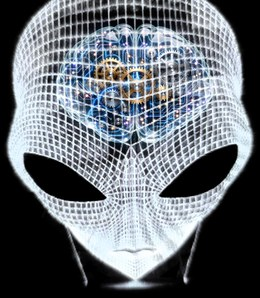
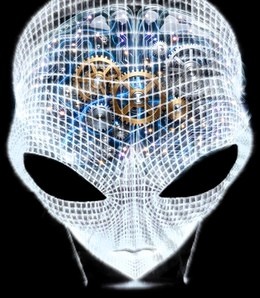
Brain wallpaper: glass brain fills the whole head (cut to the head shape, eyes clear)

Changed region(s): [[0.0615, 0.0, 0.9846, 0.6342], [0.8615, 0.2718, 0.8923, 0.302]]

diff --git a/app/src/main/java/com/jp/otherworld/wallpaper/Wallpapers.kt b/app/src/main/java/com/jp/otherworld/wallpaper/Wallpapers.kt
@@ -207,7 +207,7 @@ open class AlienWallpaperService : WallpaperService() {
         private val eyes = EyeLids(alien, seam)
         // Talk along (test): lips move with the phone's sound.
         private val talkFace = TalkFace(assets, asset)
-        private val brain: Bitmap? = if (!withBrain) null else runCatching { assets.open("alien_brain.webp").use { BitmapFactory.decodeStream(it) } }.getOrNull()
+        private val brain: Bitmap? = if (!withBrain) null else runCatching { assets.open("alien_brain_layer.webp").use { BitmapFactory.decodeStream(it) } }.getOrNull()
         private val brainPaint = Paint(Paint.FILTER_BITMAP_FLAG or Paint.ANTI_ALIAS_FLAG).apply { blendMode = android.graphics.BlendMode.SCREEN }
         private val brainRect = RectF()
         private val talk = TalkListener()
@@ -416,12 +416,11 @@ open class AlienWallpaperService : WallpaperService() {
                     c.drawBitmap(alien, 0f, 0f, maskPaint.also { it.alpha = (255 * talkFace.amount).toInt() })
                     talkFace.draw(c)
                 }
-                // The user's brain (art/originals/brain.svg) inside the skull: screened, so it glows through
-                // the mesh exactly as if it sat behind it (screen works the same in either order).
+                // The user's glass brain filling the skull (already cut to the head's shape, eyes clear, fading
+                // out below the eyes; same size as the face at 2×). Screened, so it glows through the mesh
+                // exactly as if it sat behind it (screen works the same in either order).
                 brain?.let { b ->
-                    val bw = alien.width * 0.66f; val bh = bw * b.height / b.width
-                    val bx = alien.width * 0.518f - bw / 2; val by = alien.height * 0.06f
-                    brainRect.set(bx, by, bx + bw, by + bh)
+                    brainRect.set(0f, 0f, alien.width.toFloat(), alien.height.toFloat())
                     c.drawBitmap(b, null, brainRect, brainPaint)
                 }
                 c.restoreToCount(save)

diff --git a/art/README.md b/art/README.md
@@ -79,4 +79,4 @@ generated/icon/store/: play_store_512.png (Play listing), app_store_1024.png (no
 | generated/mars/earth_to_mars_smoke_draft.mp4 | Seedance 2.5 Draft (1,000 credits, 2026-10-12): start = Earth video's first frame, end = mars_still_1.png; the Earth bursts into thick billowing grey smoke that clears to reveal Mars (user: "there is no smoke when the earth turns into mars"). Cut with tools/frames.py (saved globe_fade_mask) into assets/morph/ (121 frames), replacing the v2 swirl. HD possible until 2026-10-19 23:37 UTC. The wheel now spins the Earth ~2 s first (last 60 globe frames) before the morph. |
 | assets/morph/ (rebuilt), smoke_puff_0..2.webp | User: "the world stops spinning when it blows… not lined up… smoke contained in a bubble, can it rise up". The wheel now spins globe frames 0–59 (same side as the morph starts), then morph frames rebuilt with tools/smoke_over_spin.py: the real spinning Earth (continuing from frame 60) shows wherever the draft's frozen Earth is, the draft's grey smoke over it, then Mars. Smoke puffs (cut from the smoke frames, radial fade, brightened) rise out of the top of the globe during the smoke, timed by morph frames. |
 | assets/sounds/boom_1.wav | Low boom when the Earth bursts into smoke in the wheel (2026-10-12, "can i get a low boom"): generated/sounds/vault/boom_a.mp3 kept low (≤300 Hz) with 90–420 Hz harmonics of the rumble so phone speakers play it, soft-saturated, 2.6 s, −14 dB RMS. Wheel sounds → "Earth → Mars boom" (on/off, volume, default 70%). |
-| originals/brain.svg, originals/brain_glass.png | The user's brain art (magnific, 2026-10-12). brain_glass.png ("this one is the right one") ships as assets/alien_brain.webp: cropped to the brain, near-black lifted to pure black, 760 px wide. Screened inside the skull (66% of the face width, 6% from the top) on the new "Brain" wallpaper = the white (ice) alien. derived/brain_cut.png = the SVG version's cut-out (not used). |
+| originals/brain.svg, originals/brain_glass.png | The user's brain art (magnific, 2026-10-12). brain_glass.png ("this one is the right one") cropped to the brain, near-black lifted to pure black, then (user: "make glass brain fill the head") scaled to the full face width, cut to the head silhouette with the eye holes clear and faded out below the eyes → assets/alien_brain_layer.webp (2× face size). Screened on the new "Brain" wallpaper = the white (ice) alien. derived/brain_cut.png = the SVG version's cut-out (not used). |
